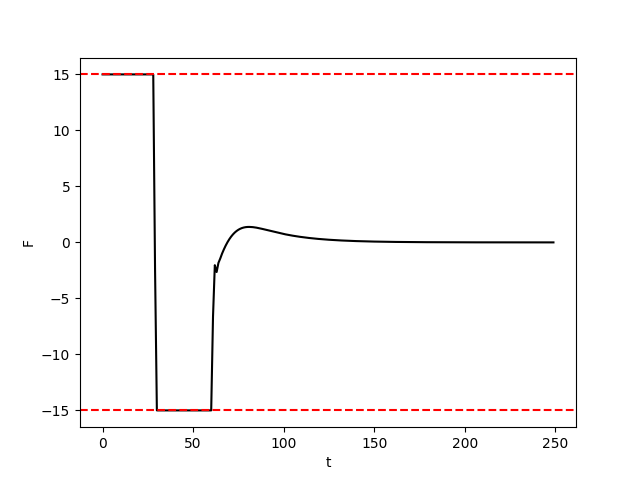
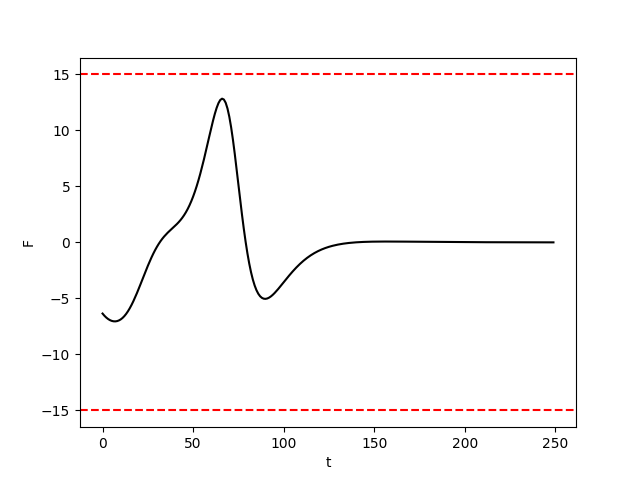
add control penalty

diff --git a/result1/partb_casadi.py b/result1/partb_casadi.py
@@ -17,13 +17,13 @@ class Config:
         self.T = 5
         self.mpc_horizon = 200
         self.u_max = 15
-        self.OnlyProcessData = True
-        self.RunControl = False
+        self.OnlyProcessData = False
+        self.RunControl = True
 
 class Visualizer:
     def __init__(self, states, conf):
         self.fig, self.ax = plt.subplots()
-        self.ax.set_xlim(-6, 1)
+        self.ax.set_xlim(-10, 10)
         self.ax.set_ylim(-1.5, 1.5)
         self.ax.set_aspect('equal')
         self.ax.set_xlabel('p')
@@ -118,28 +118,24 @@ class CartPole:
         next_x = cs.reshape(next_x, -1, 1)
 
 
-        x_dot = states[:, self.index_x_dot]
-        theta = states[:, self.index_theta]
-        theta_dot = states[:, self.index_theta_dot]
-        kinetic_energy = 0.5 * (self.conf.m_cart + self.conf.m_pole) * x_dot ** 2
-        kinetic_energy += self.conf.m_pole * x_dot * theta_dot * self.conf.l * cs.cos(theta - np.pi)
-        kinetic_energy += 0.5 * (self.conf.m_pole * self.conf.l ** 2) * theta_dot ** 2
-        potential_energy = -self.conf.m_pole * self.conf.g * self.conf.l * cs.cos(theta - np.pi)
-        cost = cs.sum1(kinetic_energy - potential_energy)
+        # x_dot = states[:, self.index_x_dot]
+        # theta = states[:, self.index_theta]
+        # theta_dot = states[:, self.index_theta_dot]
+        # kinetic_energy = 0.5 * (self.conf.m_cart + self.conf.m_pole) * x_dot ** 2
+        # kinetic_energy += self.conf.m_pole * x_dot * theta_dot * self.conf.l * cs.cos(theta - np.pi)
+        # kinetic_energy += 0.5 * (self.conf.m_pole * self.conf.l ** 2) * theta_dot ** 2
+        # potential_energy = -self.conf.m_pole * self.conf.g * self.conf.l * cs.cos(theta - np.pi)
+        # objective = cs.sum1(kinetic_energy - potential_energy)
+        cost = 0
+        ref = np.array([0,0,0,0])
         for i in range(self.conf.mpc_horizon-1):
+            cost += states[i, self.index_x_dot] * states[i, self.index_x_dot] * 0.5
+            cost += states[i, self.index_theta] * states[i, self.index_theta] * 5
+            cost += states[i, self.index_theta_dot] * states[i, self.index_theta_dot] * 0.5
             cost += controls[i, 0] * controls[i, 0] * 0.05
-        
-        # cost = 0
-        # ref = np.array([0,0,0,0])
-        # for i in range(self.conf.mpc_horizon-1):
-        #     cost += states[i, self.index_x_dot] * states[i, self.index_x_dot] * 0.5
-        #     cost += states[i, self.index_theta] * states[i, self.index_theta] * 5
-        #     cost += states[i, self.index_theta_dot] * states[i, self.index_theta_dot] * 0.5
-        #     cost += controls[i, 0] * controls[i, 0] * 0.05
-        # cost += states[self.conf.mpc_horizon-1, self.index_x_dot] * states[self.conf.mpc_horizon-1, self.index_x_dot] * 0.5
-        # cost += states[self.conf.mpc_horizon-1, self.index_theta] * states[self.conf.mpc_horizon-1, self.index_theta] * 5
-        # cost += states[self.conf.mpc_horizon-1, self.index_theta_dot] * states[self.conf.mpc_horizon-1, self.index_theta_dot] * 0.5
-
+        cost += states[self.conf.mpc_horizon-1, self.index_x_dot] * states[self.conf.mpc_horizon-1, self.index_x_dot] * 0.5
+        cost += states[self.conf.mpc_horizon-1, self.index_theta] * states[self.conf.mpc_horizon-1, self.index_theta] * 5
+        cost += states[self.conf.mpc_horizon-1, self.index_theta_dot] * states[self.conf.mpc_horizon-1, self.index_theta_dot] * 0.5
         opts = {'ipopt.print_level': 0, 'print_time': False}
         solver = cs.nlpsol('solver', 'ipopt', {'x': vars, 'f': cost, 'g': next_x}, opts)
 
